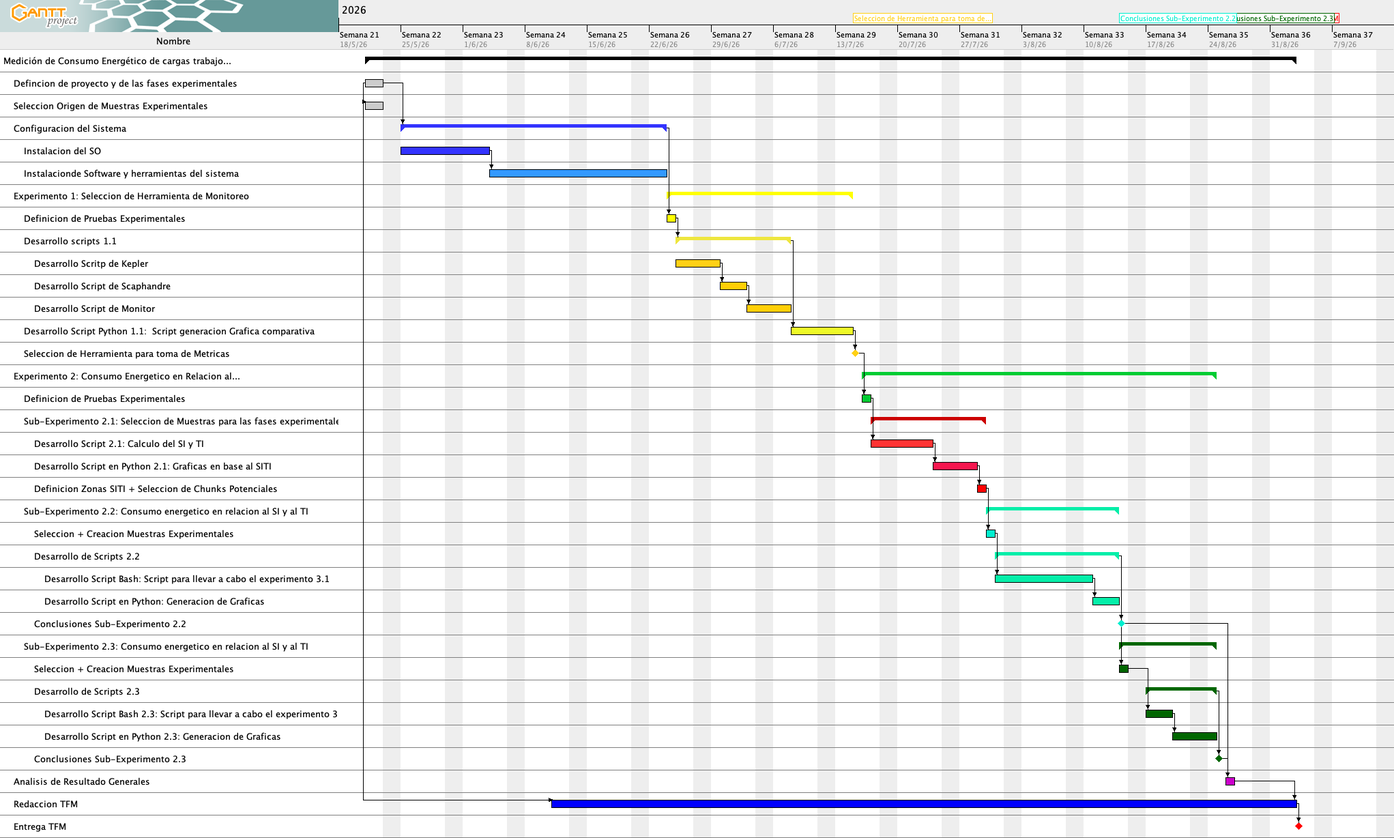
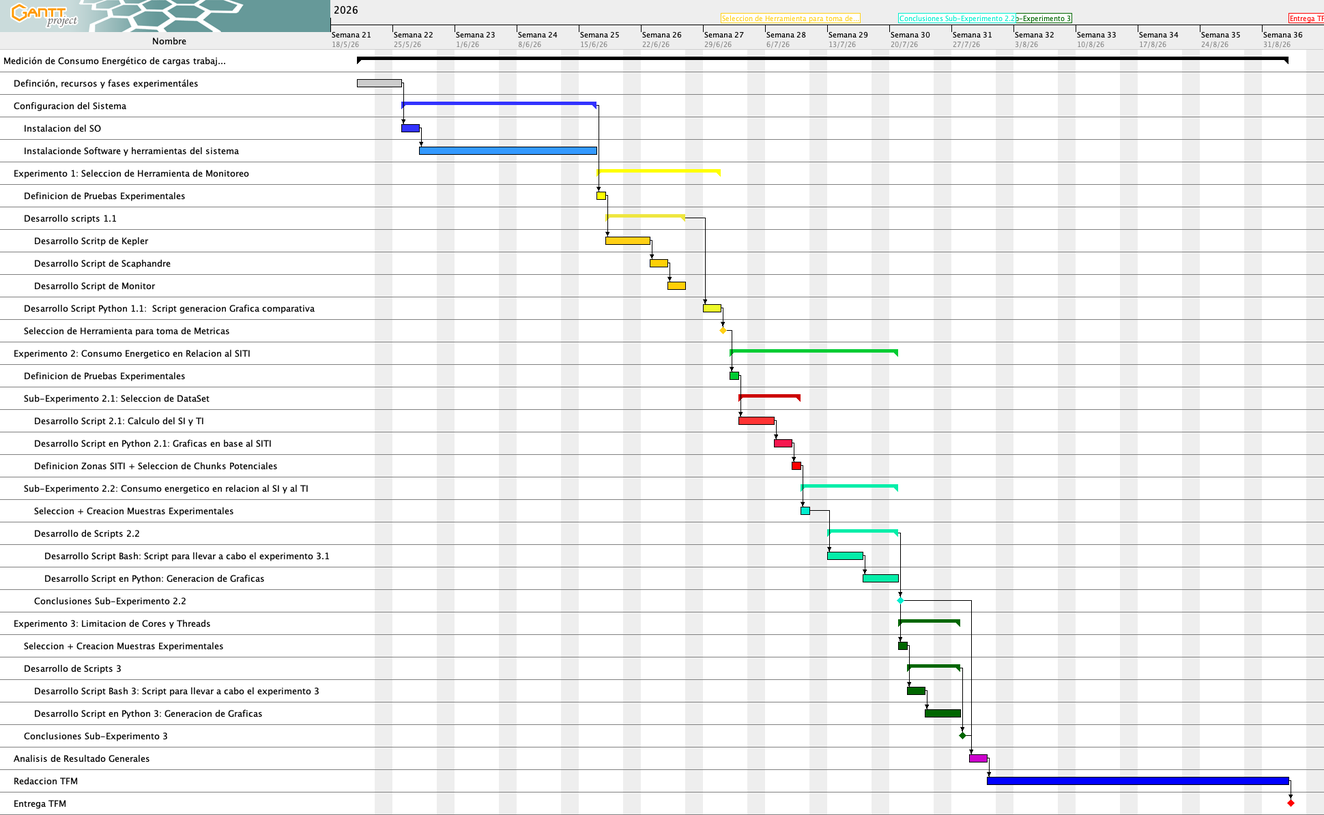
Resultados Done pero no revisado por Juan

diff --git a/tex/resultados.tex b/tex/resultados.tex
@@ -4,13 +4,13 @@
  \input{tex/results/exp3.tex}\label{exp3-desarrollo}
 
 \section{Resultados y Discusion}
- \subsection{Resultados del Experimento 2.2: Consumo energético en relación al SITI}\label{subsec:exp2.2-siti}
+ \subsection{Resultados del Experimento 2: Consumo energético en relación al SITI}\label{subsec:exp2.2-siti}
  
-  Los resultados obtenidos durante la fase experimental \textbf{Experimento 2.2: Consumo energético en relación al SITI}\ref{section:exp2.2-sitixconsumo} han permitido analizar la relación existente entre el consumo energético del proceso de transcodificación, las características del contenido de vídeo, representadas mediante las métricas \textit{Spatial Information} (SI) y \textit{Temporal Information} (TI), y el comportamiento de los diferentes codificadores evaluados. Las gráficas utilizadas para este análisis han sido generadas mediante el script de Python \textbf{ploter-exp2.2}, a partir de las métricas obtenidas por el script en Bash \textbf{exp2.2-sisti-energy}. Debido al elevado número de gráficas generadas, en este apartado únicamente se muestran aquellas consideradas más representativas para facilitar la interpretación de los resultados y evitar sobrecargar al lector. El conjunto completo de gráficas se encuentra disponible en las subsección \textit{Experimento 3: Graficas y Figuras} \ref{apendice:exp2.2-graficas} ubicado en el Apéndice.
+  Los resultados obtenidos durante la fase experimental \textbf{Experimento 2.2: Consumo energético en relación al SITI}\ref{section:exp2.2-sitixconsumo} han permitido analizar la relación existente entre el consumo energético del proceso de transcodificación, las características del contenido de vídeo, representadas mediante las características de video \textit{Spatial Information} (SI) y \textit{Temporal Information} (TI), y el comportamiento de los diferentes codificadores evaluados. Las gráficas utilizadas para este análisis han sido generadas mediante el script de Python \textbf{ploter-exp2.2}, a partir de las métricas obtenidas por el script en Bash \textbf{exp2.2-sisti-energy}. Debido al elevado número de gráficas generadas, en este apartado únicamente se muestran aquellas consideradas más representativas para facilitar la interpretación de los resultados y evitar sobrecargar al lector. El conjunto completo de gráficas se encuentra disponible en las subsección \textit{Experimento 2.2: Consumo Energetico en relacion con el SITI} \ref{apendice:exp2.2-graficas} ubicado en el Apéndice.
 
   En primer lugar, se observa una tendencia general de incremento del consumo energético a medida que aumenta el \textit{bitrate} utilizado durante la codificación. Sin embargo, desde un criterio subjetivo de calidad visual, no se aprecian mejoras significativas a partir de los \textbf{35 Mbps} para los codificadores \textbf{libx264} y \textbf{H264\_NVENC}, ni a partir de los \textbf{30 Mbps} para \textbf{libx265} y \textbf{HEVC\_NVENC}. Este resultado indica que, para los vídeos y condiciones evaluados, incrementar el bitrate por encima de dichos valores supone un aumento del consumo energético sin que dicho incremento se traduzca en una mejora perceptible de la calidad. Por tanto, estos valores podrían considerarse como referencias iniciales para establecer configuraciones de codificación que busquen un compromiso entre calidad visual y eficiencia energética.
 
-  En relación con las características SI y TI, los resultados muestran un comportamiento diferente en función del codificador utilizado. Para \textit{libx264} se observa cierta influencia de la componente temporal (\textit{TI}) sobre el consumo energético, aunque la variabilidad existente entre los diferentes vídeos impide establecer una relación directa y concluyente. Esta tendencia puede observarse en las gráficas de consumo energético frente a TI y SI, representadas respectivamente en las Figuras \ref{fig.2-consumoxsi-libx264-30} y \ref{fig.2-consumoxti-libx264-30}.
+  En relación con las características SI y TI, los resultados muestran un comportamiento diferente en función del codificador utilizado. Para \textit{libx264} se observa cierta influencia de la componente temporal (\textit{TI}) sobre el consumo energético, aunque la variabilidad existente entre los diferentes vídeos impide establecer una relación directa y concluyente. Esta tendencia puede observarse en las gráficas de consumo energético frente a TI y SI, representadas respectivamente en las Figuras \ref{fig.2-consumoxsi-libx264-30} y \ref{fig.2-consumoxti-libx264-30}. Destcar, que tambiense ha observado cierta influencia del \textit{TI} en el tiempo de codificacion, de forma que un mayor valor de TI aumenta el tiempo necesario de codificacion \ref{fig:exp2.2-consumoxtiempo-group-libx264-30-group}.
 
   En el caso de \textbf{libx265}, destaca el elevado incremento del consumo energético respecto a \textbf{libx264}. Empleando de base las características del video IndorSoccer\_0046 codificado a \textbf{40 Mbps}, uno de los videos con mayor consumo energetico y el valor maximo de bitrate para la generacion x265, se observa que el consumo energético experimenta un incremento aproximado del \textbf{9619,80\%} respecto al codificador libx264. Asimismo, el tiempo de codificación aumenta entre un \textbf{70,25\% y un 74\%} respecto al tiempo medio observado para libx264.
 
@@ -19,79 +19,81 @@
   % CODIFICACION CON GPU
   En cuanto a los codificadores que hacen uso de la GPU, \textbf{H264\_NVENC} y \textbf{HEVC\_NVENC}, se observa una reducción general tanto del consumo energético como de los tiempos de codificación respecto a sus equivalentes basados en CPU, libx264 y libx265. En las condiciones experimentales evaluadas, las diferencias entre ambas alternativas son especialmente relevantes en el caso de la generación x265, donde el uso de aceleración mediante GPU proporciona una mejora sustancial tanto en tiempo de ejecución como en consumo energético. Estos resultados ponen de manifiesto el potencial de la aceleración hardware como estrategia para reducir el coste energético asociado a procesos de transcodificación, especialmente cuando se emplean codificadores con una mayor complejidad computacional.
 
-  Al comprar ambos codificadores,se aprecia en el codificador \textbf{HEVC\_NVENC} un incremento global del consumo energético del \textit{18,80\%} respecto a \textbf{H264\_NVENC}, acompañado de un incremento del \textit{6,45\%} en los tiempos de codificación. Por tanto, aunque la aceleración mediante GPU permite reducir considerablemente el coste respecto a las alternativas basadas en CPU, la utilización de HEVC continúa suponiendo un coste adicional frente a H.264 en las condiciones analizadas.
+  Al comparar ambos codificadores, se aprecia en el codificador \textbf{HEVC\_NVENC} un incremento global del consumo energético del \textit{18,80\%} respecto a \textbf{H264\_NVENC}, acompañado de un incremento del \textit{6,45\%} en los tiempos de codificación. Por tanto, aunque la aceleración mediante GPU permite reducir considerablemente el coste respecto a las alternativas basadas en CPU, la utilización de HEVC continúa suponiendo un coste adicional frente a H.264 en las condiciones analizadas.
 
-  Centrando la atencion en \textbf{H264\_NVENC}, se observa una tendencia hacia un mayor consumo energético en aquellos vídeos caracterizados por valores elevados de \textit{TI}, mientras que valores elevados de \textit{SI} afectan al tiempo de codificacion. En consecuencia, las zonas \textbf{HSI\_LTI} y \textbf{HSI\_HTI} concentran los vídeos con mayores consumos energéticos, seguidas por \textit{LSI\_LTI}, mientras que los vídeos pertenecientes a \textit{HSI\_LTI} presentan, en términos generales, los menores consumos. Este comportamiento apunta a una mayor influencia de la complejidad espacial sobre el coste energético de \textit{H264\_NVENC}, aunque sería necesario disponer de un conjunto de muestras mayor para determinar si esta tendencia puede generalizarse.
+  Centrando la atención en \textbf{H264}, se observa una tendencia hacia un mayor consumo energético en aquellos vídeos caracterizados por valores elevados de \textit{SI}. En consecuencia, las zonas \textbf{HSI\_LTI} y \textbf{HSI\_HTI} concentran los vídeos con mayores consumos energéticos, seguidas por \textit{LSI\_HTI}, mientras que los vídeos pertenecientes a \textit{LSI\_LTI} presentan, en términos generales, los menores consumos, pero los tiempos de codificación más elevados. Este comportamiento apunta a una mayor influencia de la complejidad espacial en el consumo energético, así como dificultades para codificar videos con baja información espacial y temporal. Aunque poder reafirmar este comportamiento, sería necesario disponer de un conjunto de muestras mayor para determinar si esta tendencia puede generalizarse.
 
-  En cuanto a \textbf{HEVC\_NVENC}, en relación al consumo energético y las características SI y TI, los resultados muestran una mayor presencia de consumos elevados en vídeos caracterizados por valores \textit{altos de TI}. También destacan aquellos vídeos con valores \textit{muy elevados de SI combinados con valores reducidos de TI}, que concentran una parte importante del coste de codificación. Este comportamiento podría indicar que tanto la complejidad temporal como la espacial pueden contribuir al incremento de la carga de codificación, aunque su influencia no puede considerarse independiente a partir de los resultados obtenidos. En el extremo opuesto, los vídeos pertenecientes a la zona \textbf{LSI\_LTI} presentan, de forma general, los menores consumos energéticos.\\
+  En cuanto a \textbf{HEVC\_NVENC}, en relación al consumo energético y las características SI y TI, los resultados muestran una mayor presencia de consumos elevados en vídeos caracterizados por valores \textit{elevados de SI} y valores \textit{elevados de TI} en el aspecto de consumo energético. Por otra parte, se puede apreciar una fuerte influencia en el ámbito temporal en videos cuyas características presentan valores bajos de SI y TI (\textit{LTI\_LSI}), así como valores altos de TI y bajos en SI (\textit{HTI\_LSI}). Este comportamiento podría indicar que tanto la complejidad temporal como la espacial pueden contribuir al incremento de la carga de codificación, aunque su influencia no puede considerarse independiente a partir de los resultados obtenidos.\\
 
   Un resultado adicional de interés se obtiene al analizar los vídeos construidos a partir de varios \textit{chunks} consecutivos. Estos presentan, en términos generales, un menor consumo energético que el esperado a partir de los \textit{chunks} individuales que los componen. Este comportamiento podría estar relacionado con la reducción del número de cambios de escena y con una mayor eficiencia del proceso de codificación al trabajar sobre una secuencia continua de imágenes. Además, el consumo medio de estos vídeos tiende a situarse por debajo del consumo registrado individualmente en algunos de los \textit{chunks} que los conforman. No obstante, esta observación debe considerarse como una primera indicación y no como una conclusión definitiva, ya que sería necesario ampliar el número de vídeos de este tipo e incrementar la diversidad de contenidos para determinar si existe una relación sistemática entre la continuidad temporal de la secuencia y la eficiencia energética de la codificación.
 
 
-  \tresubfigs
+  \dosubfigs
      {figs/exp2.2/ploter2.2/plot3d/consumo_container0_j-libx264-30_ConsumoSITI.png}{Consumo energetico frente a Si y TI codificado con libx264 a 30 Mbps}{fig:exp2.2-plot3d-libx264-30}
      {figs/exp2.2/ploter2.2/consumo-si/consumo_container0_j-libx264-30_ConsumoSI.png}{Consumo energetico frente a SI codificado con libx264 a 30 Mbps}{fig:exp2.2-consumoxti-libx264-30}
+  \dosubfigs
      {figs/exp2.2/ploter2.2/consumo-ti/consumo_container0_j-libx264-30_ConsumoTI.png}{Consumo energetico frente a TI codificado con libx264 a 30 Mbps}{fig:exp2.2-consumoxsi-libx264-30}
+     {figs/exp2.2/ploter2.2/consumoxtiempo-group/30/libx264-30_ConsumoxTiempoGroup.png}{Consumo energetico frente tiempo de codificacion con libx264 a 30 Mbps}{fig:exp2.2-consumoxtiempo-group-libx264-30-group}
 
  \subsection{Resultados del Experimento 3: Consumo Energetico en relacion al numero de cores y thread}
-  % CONCLUSIONES: 
-   % - Analisi del Tiempo x Cores: 
-   %      - Consumo energetico general se ve afectado otra vez con el bitrate y en el caso de 1 core el de codificacion aumenta. Es mas notable en x265
-   %   - CPU:
-    %      - Consumo libx264 es inferior al consumo energetico x265, consumiendo libx265 1700.83-1750\% mas energia frente a las meustras de x264
-    %      - En ambos casos se aprecian mejoras de tiempo al aumentar de 1 core a 3, apreciando reducciones de tiempo aproximado de entre 60-65\% en ambos codificacodres respecto a los tiempos de 1 core. 
-    % ,    - Estancamiento en ambos codecs a partir de 6 cores. En el caso de x265 se ven variacioon muy elevadas de consumo de entre el 15-18\/% en las muestras. Frenta al aumentod e consumo en x264 del 5-10\%
-    %      - 
-   %   - GPU:
-   
-
+  
   El análisis de las gráficas obtenidas a partir de las métricas recolectadas en la sección \textbf{Experimento 3: Consumo Energético en relacion al número de cores y threads}\ref{exp3-desarrollo}, ha resultado en las conclusiones acerca del consumo energético y la limitación del número de cores y threads. Dichas gráficas han sido generadas mediante el script \textbf{ploter-exp2.3.py} \ref{code:exp2.3-ploter}; no obstante, al igual que en la sección \textbf{Resultados del Experimento 2.2: Consumo energético en relación al SITI}, el número de gráficas es exacerbado y, por tanto, se han incluido en el apéndice \textbf{Experimento 3: Consumo Energetico en relacion del numero de threads y cores} \ref{apendice:exp2.3-graficas}. Únicamente se han incluido las gráficas \ref{fig:result-exp3.2-consumoxcores-x264-30mbps}, \ref{fig:result-exp3.2-tiempoxcores-x264-30mbps} y \ref{fig:result-exp3.2-tiempoxconsumo-x264-30mbps} con el fin de facilitar la comprensión de los resultados obtenidos.
   
   Los resultados obtenidos permiten confirmar parcialmente la segunda hipótesis de investigación, planteada en el subapartado \textbf{Hipótesis Iniciales} \ref{subsec:hipotesis}, relativa a la influencia del número de \textit{cores} sobre el consumo energético. El comportamiento observado depende en gran medida del codificador utilizado y de las características del vídeo procesado. En particular, la reducción del número de \textit{cores} disponibles tiene un efecto significativo sobre el tiempo de ejecución, aunque disponer de un mayor número de \textit{cores} no implica necesariamente una reducción proporcional del consumo energético. Por tanto, el incremento de los recursos de procesamiento puede proporcionar mejoras considerables en el tiempo de codificación, pero estas mejoras no siempre se traducen en una mayor eficiencia energética. Este aspecto resulta especialmente relevante desde el punto de vista del aprovechamiento de los recursos disponibles, ya que una configuración que minimice el tiempo de ejecución no tiene por qué ser la que presente el menor consumo energético.
    
   En primer lugar, el análisis del consumo energético muestra que el \textit{bitrate} empleado durante la codificación influye de forma directa sobre el comportamiento energético de las cargas de trabajo. En general, los procesos realizados con un \textit{bitrate} de \textit{30 Mbps} presentan consumos superiores a los realizados con \textit{10 Mbps}. Esta diferencia también se refleja en el tiempo necesario para completar la codificación, especialmente en los codificadores basados en CPU, donde se observan diferencias más pronunciadas entre ambas configuraciones.
    
-  Entre los codificadores basados en CPU se observan diferencias significativas tanto en el consumo energético como en el tiempo de ejecución. Considerando los valores medios obtenidos, el codificador \textit{x265} presenta un consumo energético un \textbf{6436.65\%} superior al de \textit{x264} y requiere aproximadamente un \textbf{183.34\%} más de tiempo para completar el proceso de codificación. En cuanto a las restricciones sobre el número de \textit{threads} y \textit{cores}, ambos codificadores presentan comportamientos diferentes desde el punto de vista energético, aunque la reducción de los recursos disponibles produce en ambos casos un incremento significativo del tiempo de ejecución, con variaciones situadas aproximadamente entre el \textit{60\%} y el \textit{63\%}.
+  Entre los codificadores basados en CPU se observan diferencias significativas tanto en el consumo energético como en el tiempo de ejecución. Considerando los valores medios obtenidos, el codificador \textit{x265} presenta un consumo energético un \textbf{6436,65\%} superior al de \textit{x264} y requiere aproximadamente un \textbf{183,34\%} más de tiempo para completar el proceso de codificación. En cuanto a las restricciones sobre el número de \textit{threads} y \textit{cores}, ambos codificadores presentan comportamientos diferentes desde el punto de vista energético, aunque la reducción de los recursos disponibles produce en ambos casos un incremento significativo del tiempo de ejecución, con variaciones situadas aproximadamente entre el \textit{60\%} y el \textit{63\%}.
    
   En el caso de \textbf{libx264}, los resultados muestran una tendencia general hacia la reducción del consumo energético a medida que aumenta el número de \textit{cores} disponibles, acompañada de una disminución del tiempo necesario para completar la codificación. Sin embargo, a partir de \textit{6 cores}, el incremento de recursos proporciona beneficios reducidos. En este punto, las configuraciones superiores no aportan reducciones adicionales del consumo superiores al \textit{7--8\%} y se observa también un cierto estancamiento en el tiempo de ejecución, con reducciones inferiores al \textit{15--18\%}. Estos resultados sugieren que, para las cargas analizadas con \textit{libx264}, la incorporación de recursos adicionales resulta progresivamente menos eficiente a partir de \textit{6 cores}. Por tanto, esta configuración podría considerarse un punto de equilibrio entre consumo energético y tiempo de ejecución para el conjunto de muestras estudiado.
    
   No obstante, esta tendencia no se presenta con la misma intensidad en todas las muestras, por lo que no puede considerarse un comportamiento generalizable a cualquier carga de codificación. Sería necesario ampliar el estudio utilizando una CPU con un mayor número de \textit{cores} y un conjunto de vídeos más amplio y representativo de diferentes regiones del espacio definido por las características SI y TI para determinar con mayor precisión el punto de saturación de \textit{libx264}.
    
-  En el caso de \textbf{libx265}, el comportamiento observado es diferente y presenta una relación más directa entre el número de recursos de procesamiento utilizados y el consumo energético. En términos generales, la disponibilidad de un mayor número de \textit{threads} y \textit{cores} se traduce en un incremento del consumo energético. No obstante, entre \textit{1 core} y \textit{3 cores} se observan mejoras tanto en el consumo como en el tiempo de codificación. A partir de \textit{6 cores}, estas mejoras desaparecen y se aprecia una clara pérdida de eficiencia. Esta situación resulta especialmente evidente al incrementar a \textit{7 cores}, donde se observa un incremento del consumo energético del \textbf{10.34\%} y a penas una disminucion en los tiempos de codificacion del \textbf{-2.58\%} respecto a la configuración anterior. Estos resultados ponen de manifiesto que la utilización de un mayor número de recursos no garantiza una mejora del rendimiento y puede incluso producir un comportamiento desfavorable cuando se supera la capacidad de paralelización efectiva de la carga.
+  En el caso de \textbf{libx265}, el comportamiento observado es diferente y presenta una relación más directa entre el número de recursos de procesamiento utilizados y el consumo energético. En términos generales, la disponibilidad de un mayor número de \textit{threads} y \textit{cores} se traduce en un incremento del consumo energético. No obstante, entre \textit{1 core} y \textit{3 cores} se observan mejoras tanto en el consumo como en el tiempo de codificación. A partir de \textit{6 cores}, estas mejoras desaparecen y se aprecia una clara pérdida de eficiencia. Esta situación resulta especialmente evidente al incrementar a \textit{7 cores}, donde se observa un incremento del consumo energético del \textbf{10,34\%} y a penas una disminucion en los tiempos de codificacion del \textbf{2,58\%} respecto a la configuración anterior. Estos resultados ponen de manifiesto que la utilización de un mayor número de recursos no garantiza una mejora del rendimiento y puede incluso producir un comportamiento desfavorable cuando se supera la capacidad de paralelización efectiva de la carga.
    
-  Asimismo, en \textit{libx265} se observa una relación entre el consumo energético y las características del contenido. Las muestras que presentan los mayores consumos tienden a estar asociadas a valores elevados de \textit{SI}, lo que podría indicar una mayor sensibilidad del codificador ante la complejidad espacial del contenido. Este comportamiento sugiere que la cantidad de información presente en las escenas puede tener una influencia relevante sobre el coste energético de la codificación.
+  Asimismo, en \textit{libx265} se observa una relación entre el consumo energético y las características del contenido. Las muestras que presentan los mayores consumos tienden a estar asociadas a valores elevados de \textit{TI} y bajo \textit{SI} junto con metricas con valores bajos de \textit{TI} y bajo \textit{SI}, lo que podría indicar una mayor sensibilidad del codificador ante la complejidad temporal del contenido. Este comportamiento sugiere que los cambios de escena y la fatla de informacion espacial y temporal, tiene una gran influencia en el consumo energetico y en el tiempo de codificación.
    
-  En conjunto, los resultados obtenidos para \textit{libx264} y \textit{libx265} muestran que la hipótesis inicial relativa al efecto del número de \textit{cores} no puede considerarse completamente válida para ambos codificadores. Mientras que \textit{libx264} presenta un comportamiento acorde con la expectativa inicial, caracterizado por una reducción del consumo y del tiempo de ejecución al incrementar los recursos hasta alcanzar un punto de saturación, \textit{libx265} presenta un comportamiento diferente, con incrementos significativos del consumo al superar determinadas configuraciones. Por tanto, la relación entre paralelismo y eficiencia energética depende del codificador y no puede establecerse únicamente a partir del número de \textit{cores} asignados.
+  En conjunto, los resultados obtenidos para \textit{libx264} y \textit{libx265} muestran que la hipótesis inicial relativa al efecto del número de \textit{cores} no puede considerarse completamente válida para ambos codificadores. Mientras que \textit{libx264} presenta un comportamiento acorde con la expectativa inicial, caracterizado por una reducción del consumo y del tiempo de ejecución al incrementar los recursos hasta alcanzar un punto de saturación, \textit{libx265} presenta un comportamiento diferente, con incrementos en el consumo energético al aumentar el número de cores y threads disponibles. Y pese a que se observa cierto equilibrio en el consumo energético en \textit{x265} entre los 3 y 6 cores, este experimenta incrementos significativos del consumo al superar determinadas configuraciones. Por tanto, la relación entre paralelismo y eficiencia energética depende del codificador y no puede establecerse únicamente a partir del número de \textit{cores} asignados.
    
   Finalmente, ambos codificadores muestran cierta sensibilidad a las características del contenido, aunque con comportamientos diferentes. En \textit{libx264}, las muestras con mayor consumo energético tienden a presentar valores bajos de SI y TI, mientras que en \textit{libx265} los mayores consumos se concentran principalmente en vídeos con valores elevados de SI y bajos de TI. Estos resultados refuerzan la idea de que las características del vídeo deben considerarse conjuntamente con la configuración de recursos y el codificador empleado para analizar y optimizar el consumo energético de las cargas de codificación.
 
   % ----GPU ---
-  En cuanto a los codificadores acelerados mediante GPU, se observan comportamientos más homogéneos en términos de consumo energético y tiempo de ejecución entre \textbf{H.264\_NVENC} y \textbf{HEVC\_NVENC}. En comparación con los codificadores basados en CPU, ambos presentan ventajas significativas tanto en consumo energético como en tiempo de codificación. En concreto, se observan reducciones de consumo energético de hasta el \textbf{75.66\%} al utilizar \textit{H.264\_NVENC} frente a \textit{x264}, mientras que en el caso de \textit{HEVC\_NVENC} las reducciones alcanzan hasta el \textbf{99.16\%} respecto a \textit{x265}. Estas diferencias también se reflejan en el tiempo de ejecución, con reducciones de hasta el \textbf{90.78\%} para \textit{H.264\_NVENC} frente a \textit{x264} y de hasta el \textbf{75.66\%} para \textit{HEVC\_NVENC} respecto a \textit{x265}.
+  En cuanto a los codificadores acelerados mediante GPU, se observan comportamientos más homogéneos en términos de consumo energético y tiempo de ejecución entre \textbf{H.264\_NVENC} y \textbf{HEVC\_NVENC}. En comparación con los codificadores basados en CPU, ambos presentan ventajas significativas tanto en consumo energético como en tiempo de codificación. En concreto, se observan reducciones de consumo energético de hasta el \textbf{75,66\%} al utilizar \textit{H.264\_NVENC} frente a \textit{x264}, mientras que en el caso de \textit{HEVC\_NVENC} las reducciones alcanzan hasta el \textbf{99,16\%} respecto a \textit{x265}. Estas diferencias también se reflejan en el tiempo de ejecución, con reducciones de hasta el \textbf{90,78\%} para \textit{H.264\_NVENC} frente a \textit{x264} y de hasta el \textbf{75,66\%} para \textit{HEVC\_NVENC} respecto a \textit{x265}.
   
-  Al comparar entre sí los dos codificadores acelerados mediante GPU, se observa una ligera ventaja de \textbf{H.264\_NVENC} frente a \textbf{HEVC\_NVENC}. En términos de consumo energético, \textit{H.264\_NVENC} presenta reducciones de entre el \textbf{4.2\%} y el \textbf{5\%}, mientras que el tiempo necesario para completar la codificación se reduce aproximadamente un \textbf{8\%}. Por tanto, aunque ambos codificadores presentan un comportamiento energético y temporal considerablemente similar, \textit{H.264\_NVENC} ofrece una ligera ventaja en las condiciones experimentales analizadas.
+  Al comparar entre sí los dos codificadores acelerados mediante GPU, se observa una ligera ventaja de \textbf{H.264\_NVENC} frente a \textbf{HEVC\_NVENC}. En términos de consumo energético, \textit{H.264\_NVENC} presenta reducciones de entre el \textbf{4,2\%} y el \textbf{5\%}, mientras que el tiempo necesario para completar la codificación se reduce aproximadamente un \textbf{8\%}. Por tanto, aunque ambos codificadores presentan un comportamiento energético y temporal considerablemente similar, \textit{H.264\_NVENC} ofrece una ligera ventaja en las condiciones experimentales analizadas.
   
   En relación con las restricciones sobre el número de \textit{threads} y \textit{cores}, ambos codificadores presentan un comportamiento muy similar. Se observa una mejora significativa tanto en el consumo energético como en el tiempo de ejecución al incrementar la disponibilidad de recursos desde \textit{1} hasta \textit{3 cores}. Sin embargo, a partir de esta configuración no se observan mejoras adicionales relevantes en ninguna de las muestras analizadas. Este comportamiento permite identificar un punto de saturación en torno a \textit{3 cores}, a partir del cual la asignación de recursos adicionales no proporciona beneficios significativos y puede incluso resultar desfavorable desde el punto de vista energético.
   
   Este comportamiento se hace especialmente evidente al utilizar \textit{7 cores}. En determinadas muestras se observa un incremento del consumo energético de aproximadamente un \textbf{3--4\%} para un \textit{bitrate} de \textit{30 Mbps}, mientras que para \textit{10 Mbps} el incremento es inferior al \textbf{1\%}. Estos resultados indican que la relación entre el número de \textit{cores} disponibles y el consumo energético no es estrictamente lineal. Una vez alcanzado el nivel de paralelismo que la carga de trabajo puede aprovechar de manera efectiva, la incorporación de recursos adicionales puede producir incrementos marginales del consumo sin proporcionar mejoras equivalentes en el tiempo de ejecución.
   
-  En cuanto a la influencia de las características del contenido sobre \textbf{H.264\_NVENC}, se observa cierta sensibilidad respecto al \textit{Temporal Information} (TI), especialmente en términos de consumo energético. Las muestras con valores elevados de TI tienden a presentar un mayor consumo y el \textit{SI} afecta a los tiempo de codificación. Por otro lado, las muestras con valores elevados de \textit{Spatial Information} (SI) se sitúan entre aquellas que presentan los menores niveles de consumo en las condiciones analizadas. Cabe destacar que en el caso de video iguales o superiores a \textit{30 segundos} la falta de informacion espacion y temporal(\textit{LSI\_LTI}) afecta al consumo energetico y a los tiempos de codificacion
+  En cuanto a la influencia de las características del contenido sobre \textbf{H.264\_NVENC}, se observa cierta sensibilidad respecto al \textit{Temporal Information} (TI) en el ambito de tiempo de codificacion y sensibilidad respecto a \textit{Temporal Information} (SI) en el ambito de consumo energetico. Es por ello que las muestras con valores elevados de TI tienden a presentar un mayor tiempo de codificacion y muestras con elevado \textit{SI} presentan valores elvados de consumo energetico.. Cabe destacar que la falta de informacion espacion y temporal(\textit{LSI\_LTI}) aumenta los tiempos necesarios para llevar a cabo la codificacion y al consumo energetico. 
   
   Por su parte, \textbf{HEVC\_NVENC} presenta un comportamiento similar respecto a las características del contenido. En este caso, se observa una mayor influencia del \textit{Temporal Information} (TI) sobre el tiempo de codificacion y el consumo energetico. Asimismo, las muestras caracterizadas por valores bajos de SI y TI presentan un comportamiento diferenciado respecto al resto de contenidos analizados, lo que pone de manifiesto que la respuesta del codificador depende de la complejidad concreta de las secuencias procesadas.
   
-  El comportamiento observado en ambos codificadores acelerados mediante GPU refuerza las conclusiones obtenidas en la fase experimental anterior, en la que se identificó que las características espaciales y temporales del contenido pueden influir sobre el consumo energético de la codificación. Los resultados obtenidos en esta fase permiten ampliar dicha observación, mostrando que estas características también pueden afectar al tiempo de ejecución. Por tanto, la complejidad del contenido constituye una variable que debe considerarse conjuntamente con el codificador y los recursos de procesamiento asignados a la hora de seleccionar una configuración de codificación eficiente.
+  El comportamiento observado en ambos codificadores acelerados mediante GPU refuerza las conclusiones obtenidas en la fase experimental anterior, en la que se identificó que las características espaciales y temporales del contenido pueden influir sobre el consumo energético de la codificación y al tiempo requerido para llevar a cabo el proceso de codificacion o transcodificacion. Y pese a que en este analisis las ditincciones de consumo energetico eran mas claras, no es posible establecer una patron de coportamiento del SITI para cada codificador debido al variabilidad intrinseca da cada una de las muestra.
+
+  No obstante, sique se ha podido apreciar como las caracteristicas SITI influyen en el consumo energetico y el tiempo de codificacion en cada uno de los casos en los que se ha limitado el numero de cores y el numero de threads. Es por ello que se llega a la conclusion que las caracteristicas del video deben de ser tenidas encuenta conjuntamente con el codificador y los recursos de procesamiento asignados a la hora de seleccionar una configuración de codificación eficiente.
   
   En conjunto, los resultados obtenidos para los codificadores basados en GPU muestran que la utilización de aceleración hardware permite reducir considerablemente tanto el consumo energético como el tiempo de ejecución respecto a las configuraciones basadas en CPU. Sin embargo, estas mejoras no implican que la asignación de un mayor número de recursos produzca siempre un beneficio adicional. La existencia de un punto de saturación, junto con la influencia de las características del contenido, pone de manifiesto la necesidad de considerar conjuntamente el tipo de codificador, el número de recursos asignados y las características del vídeo para determinar configuraciones eficientes desde el punto de vista energético y temporal.
 
 
-  \tresubfigs
+  \dosubfigs
    {figs/exp2.3/ploter2.3/consumoxcores/libx264-30Mbps_ConsumoxCores.png}{Grafica comparativa de consumo energetico frente a numero de cores codificador con libx264 y 30 Mbps de bitrate}{fig:result-exp3.2-consumoxcores-x264-30mbps}
    {figs/exp2.3/ploter2.3/tiempoxcores/Eldorado_chunk0010_30fps_30s-10Mbps_libx264_libx265_TiempoxCores.png}{Grafica comparativa de tiempo de codificacion frente a numero de cores codificado con libx264 y libx265 a 30 Mbps de bitrate para el video Eldorado\_chunk0010}{fig:result-exp3.2-tiempoxcores-x264-30mbps}
+  \dosubfigs
    {figs/exp2.3/ploter2.3/consumoxtiempo/Eldorado_chunk0010_30fps_30s-10Mbps_libx264_libx265_ConsumoxTiempo.png}{Grafica comparativa de tiempo de codificacion frente a numero de cores codificador con libx264 y libx265 a  30 Mbps de bitrate para el video Eldorado\_chunk0010}{fig:result-exp3.2-tiempoxconsumo-x264-30mbps}
+   {figs/exp2.3/ploter2.3/consumoxtiempo-group/30Mbps/cores_8/hevc_nvenc-30Mbps_8_ConsumoxTiempoGroup.png}{Grafica comparativa de consumo energetico frente a tiempo de codificacion con libx264 a 30 Mbps y 8 cores, para todos los videos del dataset}{fig:result-exp3.2-tiempoxconsumo-x264-30mbps-8nucleos}
   
 
 \section{Reevaluación de Planificaion y Costes}
  % -  Reajuste del gant y reajuste de coste de acuerdo al tiempo 
- A lo largo del desarrollo del proyecto, se ha ido ajustando el diagrama de Gantt para lograr ajustar el tiempo real para cada uno de los puntos programados. Como resultado, la fecha de finalización y entrega del documento redactado del TFMS se ha alargado hasta el 3 de septiembre, debido a los problemas encontrados a la hora de llevar a cabo la instalación del sistema operativo y las diferentes herramientas a utilizar, como se refleja en \textit{Selección e Instalación del Sistema Operativo} \ref{sec:entrono-desarrollo}. Además, se ha requerido de más tiempo del esperado para desarrollar de forma funcional varios de los scripts encargados de llevar a cabo los experimentos y la recolección de los datos. Como resultado de dichos reajustes se ha obtenido el siguiente diagrama de Gantt reajustado \ref{fig:results-gantt-final}.
+ A lo largo del desarrollo del proyecto, el diagrama de Gantt se ha ido reajustando con el objetivo de reflejar de forma más precisa los tiempos reales de ejecución de las distintas tareas planificadas. La fecha prevista de finalización no se ha visto afectada, manteniéndose el 3 de septiembre como fecha final de entrega.
+ 
+ El principal contratiempo identificado durante el desarrollo estuvo relacionado con la instalación y configuración de las herramientas necesarias para el entorno experimental, cuya resolución requirió más de 15 días debido a las dificultades descritas en la sección \textbf{Configuración del Entorno y Herramientas} \ref{exp0-environment}. Este retraso pudo compensarse parcialmente gracias a una ejecución más rápida de las tareas asociadas al desarrollo de los experimentos, principalmente debido a que el tiempo requerido para la implementación de los scripts fue considerablemente inferior al estimado inicialmente.
+ 
+ El tiempo ahorrado durante esta fase permitió compensar el retraso acumulado durante la configuración del entorno y, adicionalmente, ampliar en cuatro días el periodo inicialmente previsto para la redacción del TFM, cuya duración había sido inicialmente infraestimada. De este modo, los reajustes realizados permitieron mantener la fecha de finalización prevista y adaptar la planificación a los tiempos reales de desarrollo.
+ 
+ Como resultado de estos reajustes, se obtiene el diagrama de Gantt final mostrado en la figura \ref{fig:results-gantt-final}.
 
  \begin{figure}[h!]
      \centering
@@ -100,7 +102,7 @@
      \label{fig:results-gantt-final}
  \end{figure}
 
- De esta forma, se ajusta tambien el coste del proyecto \ref{fig:results-gantt-final}, aumentando de 4 a 5 meses, lo que implica un coste de \textit{8035.16€}, que en comparación a los \textit{6639.33€} presupuestados inicialmente, supone un aumento del \textbf{21.02\%}.
+ Debido a que no se ha extendido el tiempo del proyecto, se ha podido cumplir la estimación de costes planteada en un inicio.
  
  \begin{figure}[ht!]
      \centering

diff --git a/tex/conclusiones.tex b/tex/conclusiones.tex
@@ -24,7 +24,7 @@
 \section{Limitaciones}
 Durante el desarrollo del proyecto y la evaluación de los resultados obtenidos se han identificado diversas limitaciones, tanto de carácter metodológico como contextual, que deben tenerse en consideración al interpretar las conclusiones del estudio.
 
-En cuanto a las limitaciones metodológicas, una de las principales está relacionada con la selección de las muestras de vídeo empleadas durante la fase experimental. Esta limitación resulta especialmente relevante en los experimentos \textit{Experimento 2: Consumo energético en relacion al SITI y el Numero de Threads} y \textit{Experimento 3: Consumo Energetico en relacion al numero de cores y threads}, en los que la selección de los chunks se realizó a partir de sus valores de \textit{Spatial Information} (SI) y \textit{Temporal Information} (TI). Durante este proceso se encontraron dificultades para obtener un número suficiente de muestras con características SI/TI suficientemente diferenciadas dentro de las cuatro zonas de interés previamente delimitadas. En particular, se observó una disponibilidad limitada de chunks con valores de TI superiores a 25 que, además, se encontraran dentro de las regiones de interés establecidas.
+En cuanto a las limitaciones metodológicas, una de las principales está relacionada con la selección de las muestras de vídeo empleadas durante la fase experimental. Esta limitación resulta especialmente relevante en los experimentos \textit{Experimento 2: Consumo energético en relacion al SITI y el Numero de Threads} y \textit{Experimento 3: Consumo Energético en relación al número de cores y threads}, en los que la selección de los chunks se realizó a partir de sus valores de \textit{Spatial Information} (SI) y \textit{Temporal Information} (TI). Durante este proceso se encontraron dificultades para obtener un número suficiente de muestras con características SI/TI suficientemente diferenciadas dentro de las cuatro zonas de interés previamente delimitadas. En particular, se observó una disponibilidad limitada de chunks con valores de TI superiores a 25 que, además, se encontraran dentro de las regiones de interés establecidas.
 
 Esta restricción en la disponibilidad y diversidad de las muestras ha reducido la variabilidad de las características del contenido utilizadas durante los experimentos. Como consecuencia, en determinados casos las diferencias observadas en el consumo energético y el tiempo de codificación entre las muestras han sido reducidas, dificultando la identificación de relaciones claras entre las características SI/TI, el consumo energético y el comportamiento de los diferentes codificadores. Por tanto, los resultados obtenidos permiten identificar determinadas tendencias, pero no proporcionan evidencia suficiente para establecer una correlación robusta y generalizable entre estas variables.
 

diff --git a/tex/results/exp2.tex b/tex/results/exp2.tex
@@ -128,7 +128,7 @@ El script está diseñado para ejecutarse desde la interfaz de línea de comando
      
      \item \textbf{plot-consumo-si}: Permite generar una gráfica bidimensional de tipo \textit{stream} para cada combinación de codificador y \textit{bitrate}. En este caso, el eje X representa el valor de SI y el eje Y el consumo energético, expresado en julios, del proceso de transcodificación.
      
-     \item \textbf{plot_consumoxtiempo_grupal}: Permite generar una gráfica de dispersión de puntos, las cuales se agrupan por codec y bitrate utilizado. En este caso lleva a cabo una comparativa entre consumo energético y tiempo de codificación, permitiendo discernir cómo afectan las características de los videos.
+     \item \textbf{plot-consumoxtiempo-grupal}: Permite generar una gráfica de dispersión de puntos, las cuales se agrupan por codec y bitrate utilizado. En este caso lleva a cabo una comparativa entre consumo energético y tiempo de codificación, permitiendo discernir cómo afectan las características de los videos.
 
      \item \textbf{--data-final-dir=PATH\_ARCHIVO}: Permite definir una ruta alternativa para almacenar el archivo CSV resultante del procesamiento de los datos. Por defecto, se utiliza la ruta \textit{./data/ex2.2\_process\_data.csv}.
      
